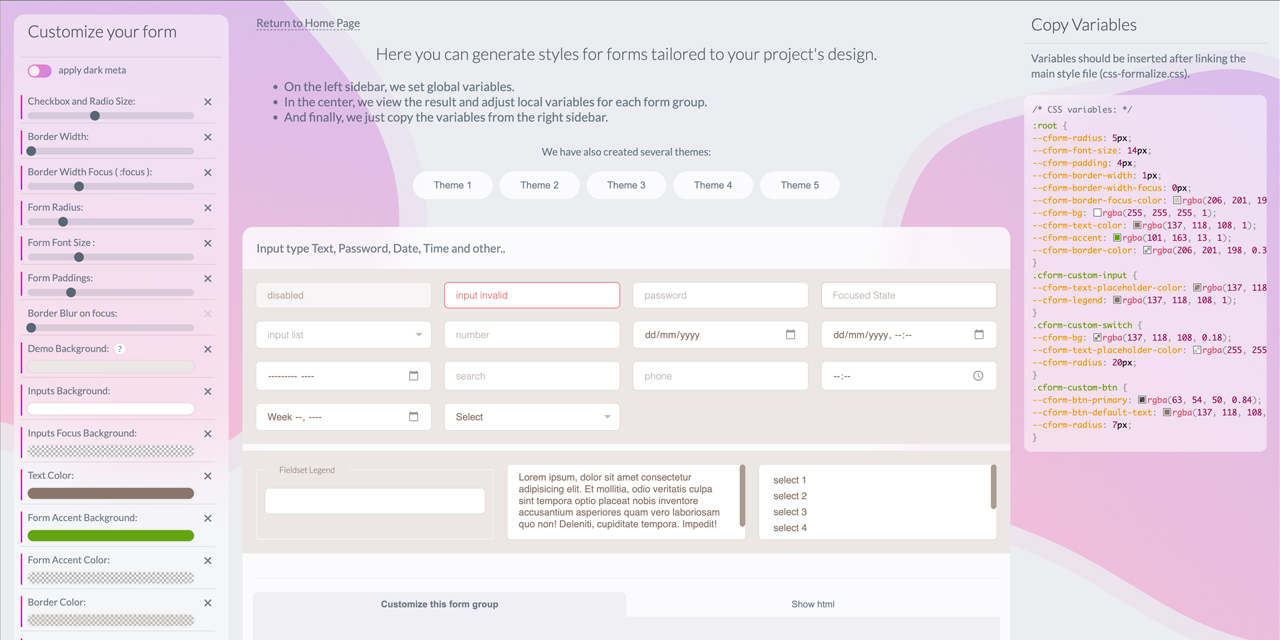
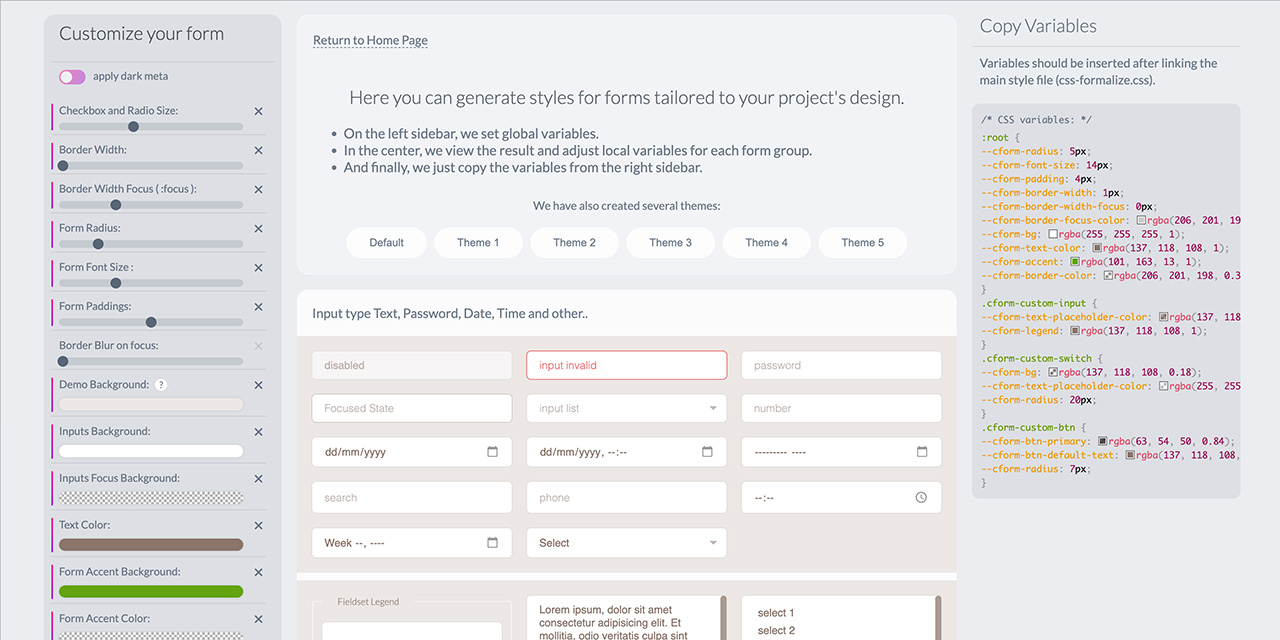
replace screenshot

diff --git a/css/demo.css b/css/demo.css
@@ -275,6 +275,7 @@ header {
   flex-direction: column;
   justify-content: center;
   background: rgba(255, 255, 255, 0.5);
+  border: 1px solid rgba(255, 255, 255, 0.3);
   border-radius: var(--demo-border-radius);
   box-shadow: var(--demo-box-shadow);
   -webkit-backdrop-filter: blur(20px);
@@ -727,9 +728,9 @@ pre[class*=language-] {
 
 .circle-2 {
   position: absolute;
-  top: -10vh;
+  bottom: -10vh;
   right: clamp(-300px, -25vw, -500px);
-  width: 56vw;
+  width: 66vw;
 }
 
 .sidebar-title {
@@ -1098,6 +1099,7 @@ pre[class*=language-] {
   background: rgba(255, 255, 255, 0.5);
   color: var(--demo-text-color);
   margin: 0 auto;
+  border: 1px solid rgba(255, 255, 255, 0.3);
   border-radius: var(--demo-border-radius);
   box-shadow: var(--demo-box-shadow);
   -webkit-backdrop-filter: blur(20px);
@@ -1461,7 +1463,6 @@ pre[class*=language-] {
   }
   .circle-2 {
     width: 120vw;
-    top: auto;
     bottom: -15vh;
   }
 }

diff --git a/scss/demo.scss b/scss/demo.scss
@@ -294,7 +294,7 @@ header {
   justify-content: center;
   background: rgba(#fff, 0.5);
 
-  //border: 1px dashed #ccc;
+  border: 1px solid rgba(#fff, 0.3);
   border-radius: var(--demo-border-radius);
   box-shadow: var(--demo-box-shadow);
   //margin-bottom: 30px;
@@ -775,9 +775,9 @@ pre[class*="language-"] {
 
 .circle-2 {
   position: absolute;
-  top: -10vh;
+  bottom: -10vh;
   right: clamp(-300px, -25vw, -500px);
-  width: 56vw;
+  width: 66vw;
   //filter: hue-rotate(-40deg);
 }
 
@@ -1191,6 +1191,7 @@ pre[class*="language-"] {
   color: var(--demo-text-color);
   margin: 0 auto;
   //border: 1px dashed #ccc;
+  border: 1px solid rgba(#fff, 0.3);
   border-radius: var(--demo-border-radius);
   box-shadow: var(--demo-box-shadow);
   //margin-bottom: 30px;
@@ -1576,7 +1577,7 @@ pre[class*="language-"] {
   }
   .circle-2 {
     width: 120vw;
-    top: auto;
+    //top: auto;
     bottom: -15vh
   }
 }
